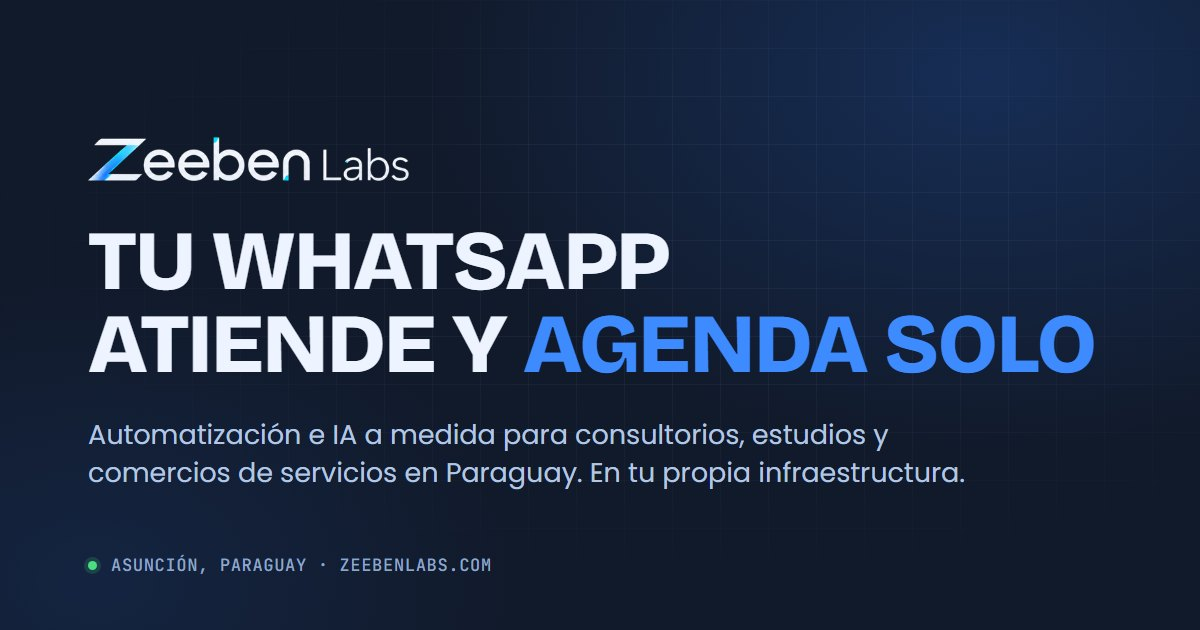
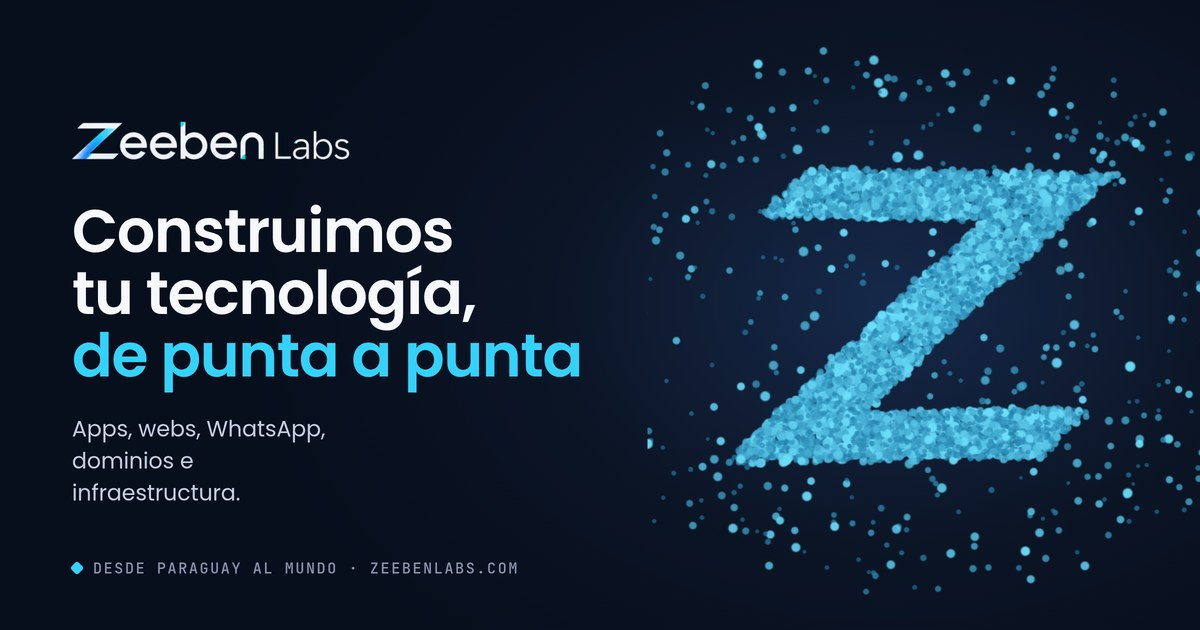
Renueva la imagen de preview: mostraba el posicionamiento viejo
La preview de WhatsApp si funcionaba -- lo que estaba viejo era la imagen.
Databa de agosto y decia "TU WHATSAPP ATIENDE Y AGENDA SOLO", justo el
mensaje que corregimos por sobrerepresentar un servicio de cinco.

La nueva lleva el titular actual, las cinco lineas, "desde Paraguay al
mundo" y el sello Z hecho con el mismo enjambre del sitio. Sale del sitio
en oscuro, que ahora es el default.

Queda la plantilla en tools/og-card.html y como regenerarla en
tools/og-card.md: si vuelve a cambiar el titular, esta imagen no se
actualiza sola y sigue mostrando el mensaje viejo.

Se captura el <body> y no la ventana porque --window-size no da el alto
exacto y salia recortada; a 2x y reducida despues, para que el texto quede
nitido.

Sale el PNG de 225 KB, que ya no referenciaba nadie.

diff --git a/tools/og-card.html b/tools/og-card.html
@@ -1,0 +1,119 @@
+<!DOCTYPE html>
+<html lang="es">
+<head>
+<meta charset="utf-8">
+<title>Zeeben Labs — tarjeta OG</title>
+<!-- ============================================================
+     Fuente de la imagen de preview (assets/og-image.jpg).
+     No es parte del sitio: es la plantilla desde la que se genera.
+     Para regenerarla, ver tools/og-card.md
+     ============================================================ -->
+<style>
+@font-face{font-family:'Poppins';font-weight:400;font-display:block;src:url('../assets/fonts/poppins-400.woff2') format('woff2')}
+@font-face{font-family:'Poppins';font-weight:600;font-display:block;src:url('../assets/fonts/poppins-600.woff2') format('woff2')}
+@font-face{font-family:'JetBrains Mono';font-weight:500;font-display:block;src:url('../assets/fonts/jetbrainsmono-500.woff2') format('woff2')}
+*{box-sizing:border-box;margin:0}
+body{width:1200px;height:630px;overflow:hidden;background:#070E1C;
+  font-family:'Poppins',sans-serif;color:#F6F8FC;position:relative}
+.glow{position:absolute;inset:0;
+  background:radial-gradient(ellipse 55% 75% at 74% 48%, #16294A 0%, #0C1526 52%, #070E1C 100%)}
+.card{position:relative;height:100%;display:grid;grid-template-columns:1.02fr .98fr;
+  align-items:center;padding:0 0 0 72px}
+.logo{height:38px;width:auto}
+h1{font-size:60px;font-weight:600;line-height:1.04;letter-spacing:-.02em;margin-top:34px}
+h1 .ac{color:#34D2FB}
+.sub{margin-top:26px;font-size:22px;line-height:1.45;color:#C3CFE2;max-width:20ch}
+.pie{position:absolute;left:72px;bottom:52px;display:flex;align-items:center;gap:11px;
+  font-family:'JetBrains Mono',monospace;font-size:15px;letter-spacing:.11em;
+  text-transform:uppercase;color:#8A94AD}
+.rombo{width:10px;height:10px;background:#34D2FB;border-radius:2.5px;transform:rotate(45deg)}
+#escena{position:relative;height:100%}
+#escena canvas{display:block;width:100%;height:100%}
+</style>
+</head>
+<body>
+<div class="glow"></div>
+<div class="card">
+  <div>
+    <img class="logo" src="../assets/logo.webp" alt="">
+    <h1>Construimos<br>tu tecnología,<br><span class="ac">de punta a punta</span></h1>
+    <p class="sub">Apps, webs, WhatsApp, dominios e infraestructura.</p>
+  </div>
+  <div id="escena"></div>
+</div>
+<p class="pie"><span class="rombo"></span>Desde Paraguay al mundo · zeebenlabs.com</p>
+
+<script src="../three.min.js"></script>
+<script>
+/* El mismo enjambre del sitio, congelado en el sello Z. */
+(function(){
+  var div=document.getElementById('escena');
+  var r=new THREE.WebGLRenderer({antialias:true,alpha:true});
+  r.setPixelRatio(window.devicePixelRatio||1);
+  r.outputEncoding=THREE.sRGBEncoding;
+  div.appendChild(r.domElement);
+  var esc=new THREE.Scene();
+  var cam=new THREE.PerspectiveCamera(32,div.clientWidth/div.clientHeight,0.1,40);
+  cam.position.set(0,0,6.1);
+  var N=9000,DUST=Math.floor(N*0.06),L=512;
+
+  function muestrear(dib){
+    var c=document.createElement('canvas');c.width=c.height=L;
+    var x=c.getContext('2d');x.clearRect(0,0,L,L);
+    x.strokeStyle=x.fillStyle='#000';x.lineCap=x.lineJoin='round';dib(x);
+    var img=x.getImageData(0,0,L,L).data,cand=[];
+    for(var i=0;i<L*L;i++) if(img[i*4+3]>100) cand.push(i);
+    var pos=new Float32Array(N*3);
+    for(var p=0;p<N;p++){
+      if(p>=N-DUST||!cand.length){
+        var rr=1.7+Math.random()*0.5,th=Math.random()*Math.PI*2,ph=Math.acos(2*Math.random()-1);
+        pos[p*3]=rr*Math.sin(ph)*Math.cos(th);
+        pos[p*3+1]=rr*Math.sin(ph)*Math.sin(th)*0.7;
+        pos[p*3+2]=rr*Math.cos(ph)*0.5;continue;
+      }
+      var idx=cand[(Math.random()*cand.length)|0],px=idx%L,py=(idx/L)|0;
+      pos[p*3]=((px+Math.random())/L*2-1)*1.45;
+      pos[p*3+1]=-(((py+Math.random())/L)*2-1)*1.45;
+      pos[p*3+2]=(Math.random()*2-1)*0.14;
+    }
+    return pos;
+  }
+
+  var rands=new Float32Array(N);
+  for(var i=0;i<N;i++) rands[i]=Math.random();
+
+  var mat=new THREE.ShaderMaterial({
+    uniforms:{uSize:{value:26*(window.devicePixelRatio||1)}},
+    transparent:true,depthWrite:false,
+    vertexShader:['attribute float aRand;uniform float uSize;varying float vR;',
+      'void main(){vec4 mv=modelViewMatrix*vec4(position,1.0);',
+      'gl_PointSize=uSize*(1.9/-mv.z)*(0.6+aRand*0.8);',
+      'gl_Position=projectionMatrix*mv;vR=aRand;}'].join('\n'),
+    fragmentShader:['varying float vR;void main(){',
+      'float d=length(gl_PointCoord-0.5);if(d>0.5)discard;',
+      'float a=smoothstep(0.5,0.28,d)*(0.55+vR*0.4);',
+      'gl_FragColor=vec4(mix(vec3(0.129,0.494,0.667),vec3(0.435,0.886,1.0),vR*vR),a);}'].join('\n')
+  });
+
+  var img=new Image();
+  img.onload=function(){
+    var pos=muestrear(function(x){
+      var w=380,h=w*img.height/img.width;
+      x.drawImage(img,(L-w)/2,(L-h)/2,w,h);
+    });
+    var g=new THREE.BufferGeometry();
+    g.setAttribute('position',new THREE.BufferAttribute(pos,3));
+    g.setAttribute('aRand',new THREE.BufferAttribute(rands,1));
+    var pts=new THREE.Points(g,mat);
+    pts.rotation.y=0.12;
+    esc.add(pts);
+    r.setSize(div.clientWidth,div.clientHeight,false);
+    cam.aspect=div.clientWidth/div.clientHeight;cam.updateProjectionMatrix();
+    r.render(esc,cam);
+    document.body.dataset.listo='1';
+  };
+  img.src='../assets/isotype-z.webp';
+})();
+</script>
+</body>
+</html>

diff --git a/tools/og-card.md b/tools/og-card.md
@@ -1,0 +1,51 @@
+# Imagen de preview (`assets/og-image.jpg`)
+
+Es lo que se ve cuando alguien comparte el link en WhatsApp, Telegram,
+LinkedIn o Twitter. **No se actualiza sola**: si cambia el titular o el
+posicionamiento del sitio, hay que regenerarla o va a seguir mostrando el
+mensaje viejo.
+
+La plantilla es `tools/og-card.html` — el mismo enjambre del sitio,
+congelado en el sello Z.
+
+## Regenerar
+
+Con el sitio servido en local (`python3 -m http.server 8901` desde la raíz):
+
+```python
+import time
+from selenium import webdriver
+from selenium.webdriver.chrome.options import Options
+from selenium.webdriver.chrome.service import Service
+from PIL import Image
+import os
+
+CB = os.path.expanduser("~/.cache/puppeteer/chrome/linux-148.0.7778.97/chrome-linux64/chrome")
+CD = os.path.expanduser("~/.local/bin/chromedriver")
+op = Options(); op.binary_location = CB
+for a in ["--headless=new","--no-sandbox","--window-size=1400,900",
+          "--force-device-scale-factor=2","--hide-scrollbars",
+          "--enable-unsafe-swiftshader","--use-angle=swiftshader","--use-gl=angle"]:
+    op.add_argument(a)
+d = webdriver.Chrome(service=Service(executable_path=CD), options=op)
+d.get("http://localhost:8901/tools/og-card.html")
+for _ in range(30):                      # esperar a que el enjambre termine
+    time.sleep(1)
+    if d.execute_script("return document.body.dataset.listo==='1'"): break
+time.sleep(2)
+open("/tmp/og-raw.png","wb").write(d.find_element("tag name","body").screenshot_as_png)
+d.quit()
+
+Image.open("/tmp/og-raw.png").convert("RGB").resize((1200,630), Image.LANCZOS) \
+     .save("assets/og-image.jpg", "JPEG", quality=88, optimize=True)
+```
+
+Se captura el `<body>` y no la ventana: `--window-size` no da el alto exacto
+y la imagen salía recortada. A 2x y después reducida a 1200x630 para que el
+texto quede nítido.
+
+## Después de cambiarla
+
+Los scrapers cachean por días. Para forzar una lectura nueva, compartir el
+link con un parámetro (`zeebenlabs.com/?p=2`) o pasarlo por el depurador de
+Facebook.
